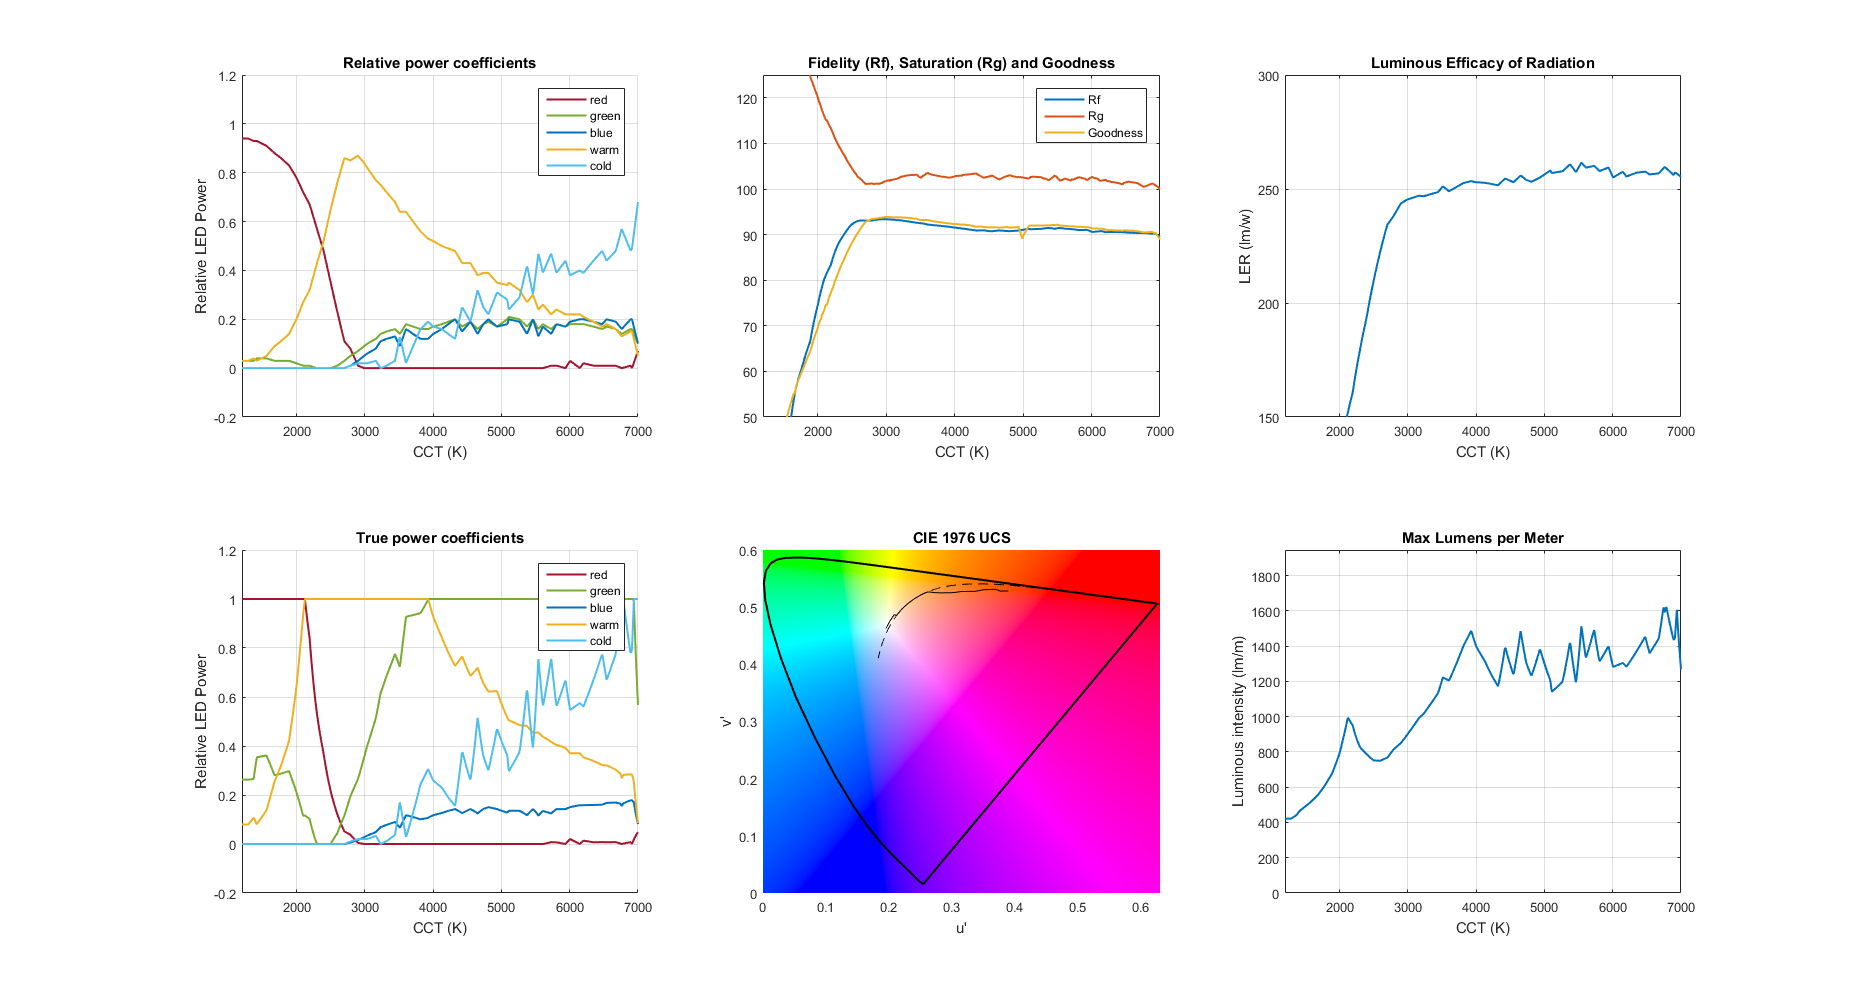
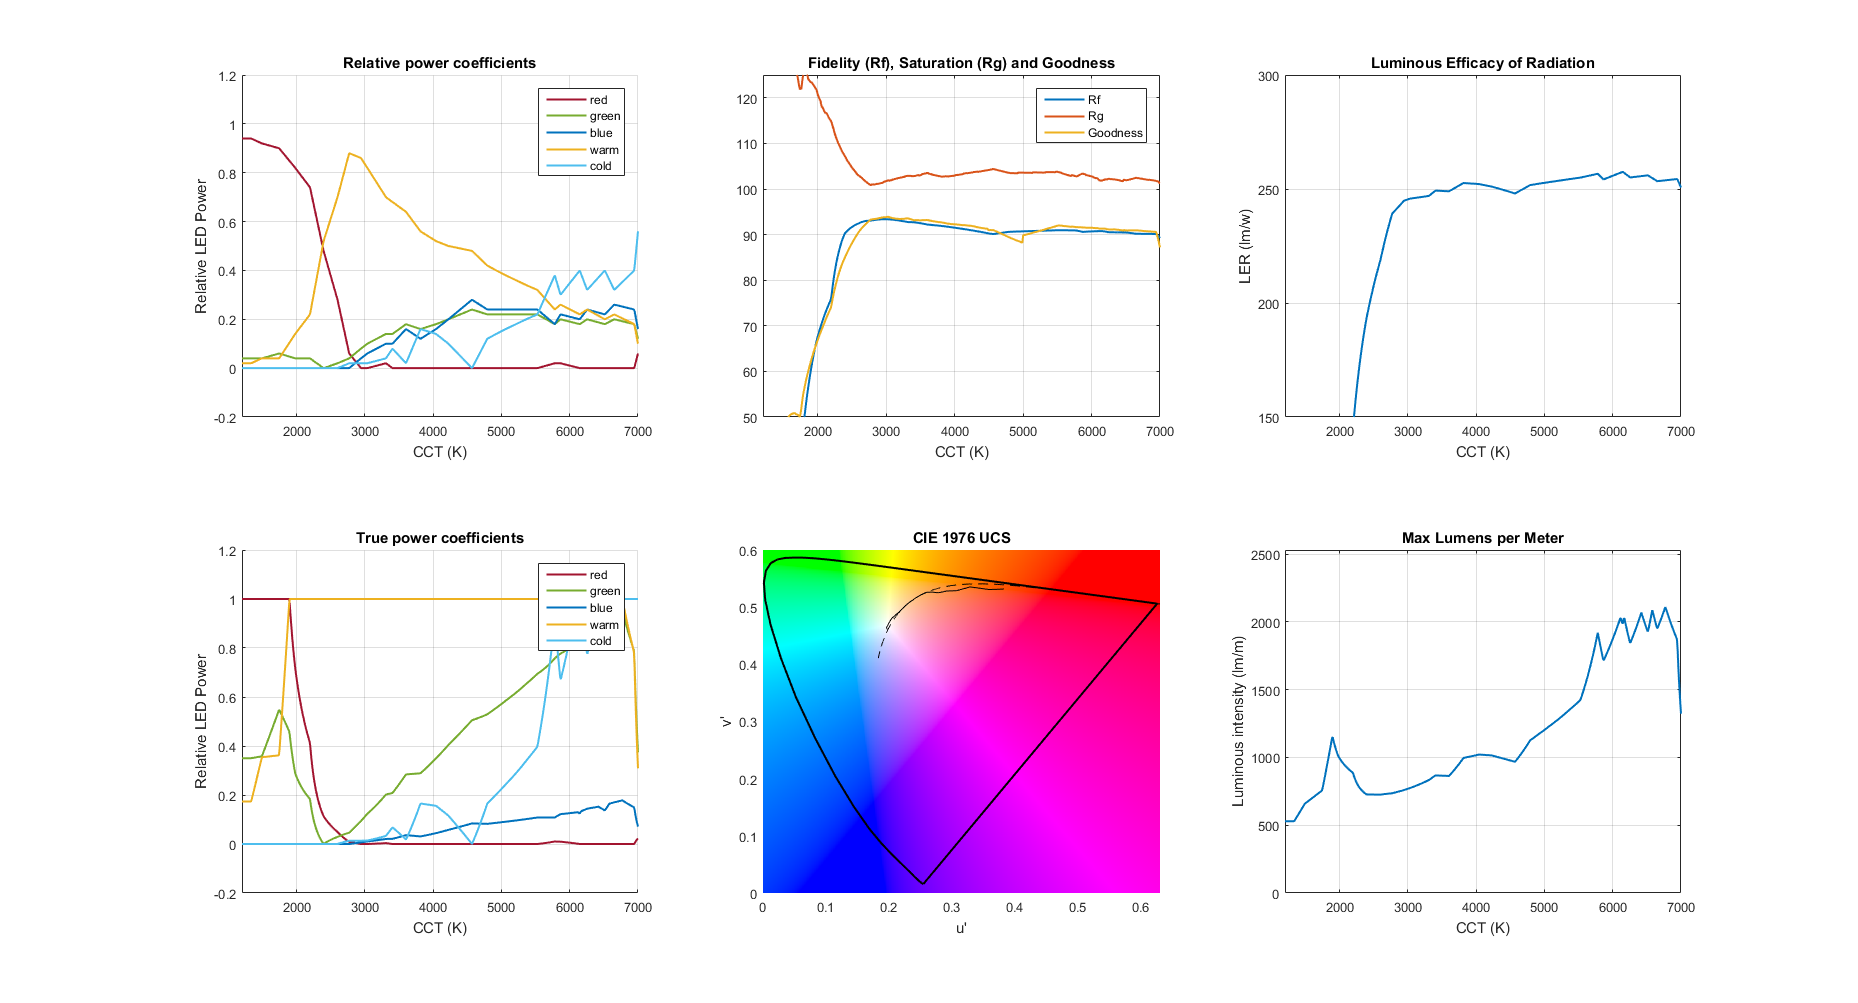
Optimzation and spectrum inspection use linear transition from black body radiator to illuminant d. Updated results.

diff --git a/Matlab/tunableWhite.m b/Matlab/tunableWhite.m
@@ -9,7 +9,7 @@ time = clock; disp(['Started at ' num2str(time(4)) ':' num2str(time(5))]); % Dis
 % LED mixing coefficient resolution. Higher the resolution, better the
 % results but time requirement is higher (in high order)
 % 5 LED mixing with resolution of 0.01 should take several hours.
-resolution = 0.01;
+resolution = 0.02;
 
 % Color temperature bin size in Kelvins for selecting best results.
 % Raw mixing results are binned by color temperature and for each bin the
@@ -64,8 +64,8 @@ maxDuv = 0.01;
 
 % Color temperature samples for inspection. inspectSpd function is called
 % with spds resulting in all of these correlated color temperatures.
-%inspectSpds = [1500, 2000, 2700, 4000, 5600, 6500];
-inspectSpds = [];
+inspectSpds = [1500, 2000, 2700, 4000, 5600, 6500];
+%inspectSpds = [];
 
 % Spectrums for red, green and blue LEDs. First value in the array (second
 % parameter for gaussmf) is the peak width in nanometers, and the second

diff --git a/Matlab/generateMixingData.m b/Matlab/generateMixingData.m
@@ -53,7 +53,7 @@ for i = 1:length(rawMixingData)
     spd = mixSpd(ledSpds, rawMixingData(i, 2:end));
     [~, ~, ~, X, Y ,Z] = spdToXyz(spd);
     uv = xyzToCie1976UcsUv([X Y Z]);
-    [~, ~, ~, Xw, Yw ,Zw] = spdToXyz(refSpd(rawMixingData(i, 1)));
+    [~, ~, ~, Xw, Yw ,Zw] = spdToXyz(refSpd(rawMixingData(i, 1), true));
     uvw = xyzToCie1976UcsUv([Xw Yw Zw]);
     duv = sqrt(sum((uv-uvw).^2));
     % Skip samples that deviate from planckian locus too much

diff --git a/Matlab/inspectSpd.m b/Matlab/inspectSpd.m
@@ -37,7 +37,7 @@ L = 380:5:780;
 
 % Reference spectrum
 CCT = spdToCct(spd);
-ref = refSpd(CCT);
+ref = refSpd(CCT, true);
 [x, y, z, X, Y, Z] = spdToXyz(spd);
 [~, ~, ~, X_ref, Y_ref, Z_ref] = spdToXyz(ref);
 [goodness, duv] = lightGoodness(Rf, Rg, [X Y Z], [X_ref Y_ref Z_ref], targetRg, RfPenalty, RgPenalty, duvPenalty);
